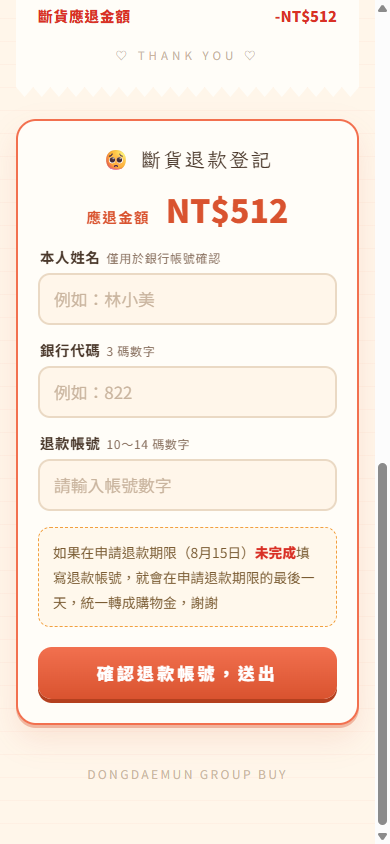
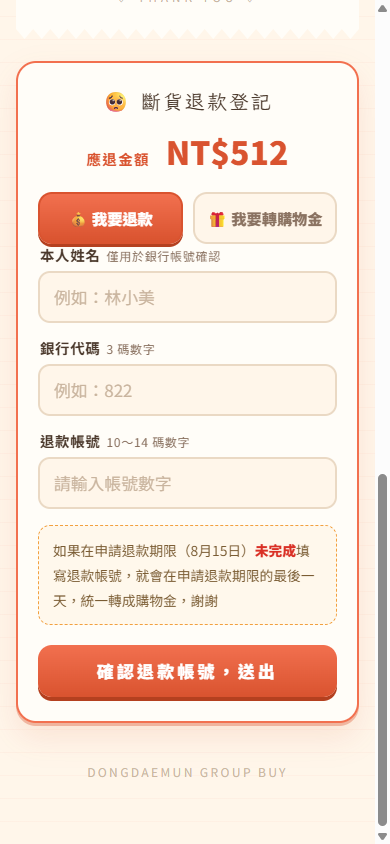
groupbuy-refund-checker：新增退款/轉購物金二選一流程，更新截圖

diff --git a/groupbuy-refund-checker/網站/index.html b/groupbuy-refund-checker/網站/index.html
@@ -171,6 +171,21 @@ button.main:disabled{opacity:.55;box-shadow:0 4px 0 #B4401F}
   display:none;margin-top:12px;background:var(--mint-soft);color:var(--mint);
   border-radius:12px;padding:10px 14px;font-size:.88rem;line-height:1.6;text-align:center;font-weight:700;
 }
+.choice{display:flex;gap:10px;margin-top:18px}
+.choice button{
+  flex:1;font:inherit;font-weight:900;font-size:.95rem;letter-spacing:0;
+  padding:13px 2px;border-radius:14px;cursor:pointer;transition:all .15s;
+  background:var(--cream);color:var(--ink-soft);border:2px solid var(--line);
+  white-space:nowrap;
+}
+.choice button.sel{
+  background:linear-gradient(180deg,var(--coral),var(--coral-deep));color:#fff;
+  border-color:var(--coral-deep);box-shadow:0 3px 0 #B4401F;
+}
+.credit-note{
+  margin-top:16px;background:var(--mint-soft);border:1.5px dashed var(--mint);border-radius:12px;
+  padding:12px 14px;font-size:.86rem;line-height:1.8;color:#22715B;text-align:center;
+}
 .already.show{display:block}
 .note{
   margin-top:16px;background:#FFF8EC;border:1.5px dashed var(--amber);border-radius:12px;
@@ -243,16 +258,27 @@ footer{margin-top:40px;color:#CBB79F;font-size:.75rem;letter-spacing:.2em;text-a
     <div class="refund-card" id="refundCard" hidden>
       <h2>🥺 斷貨退款登記</h2>
       <div class="refund-amt"><small>應退金額　</small><span id="rAmt"></span></div>
-      <div class="already" id="already">已經收到妳填過的退款帳號囉！<br>要更換帳號的話，重新填寫送出即可～</div>
-      <label for="hname">本人姓名<small>僅用於銀行帳號確認</small></label>
-      <input id="hname" autocomplete="off" placeholder="例如：林小美" maxlength="30">
-      <label for="bank">銀行代碼<small>3 碼數字</small></label>
-      <input id="bank" inputmode="numeric" autocomplete="off" placeholder="例如：822" maxlength="3">
-      <label for="acct">退款帳號<small>10～14 碼數字</small></label>
-      <input id="acct" inputmode="numeric" autocomplete="off" placeholder="請輸入帳號數字" maxlength="20">
-      <div class="note" id="deadlineNote"></div>
-      <button class="main" id="btnSubmit">確認退款帳號，送出</button>
-      <div class="err" id="sErr"></div>
+      <div class="already" id="already"></div>
+      <div class="choice">
+        <button id="chooseRefund">💰 我要退款</button>
+        <button id="chooseCredit">🎁 我要轉購物金</button>
+      </div>
+      <div id="refundForm" hidden>
+        <label for="hname">本人姓名<small>僅用於銀行帳號確認</small></label>
+        <input id="hname" autocomplete="off" placeholder="例如：林小美" maxlength="30">
+        <label for="bank">銀行代碼<small>3 碼數字</small></label>
+        <input id="bank" inputmode="numeric" autocomplete="off" placeholder="例如：822" maxlength="3">
+        <label for="acct">退款帳號<small>10～14 碼數字</small></label>
+        <input id="acct" inputmode="numeric" autocomplete="off" placeholder="請輸入帳號數字" maxlength="20">
+        <div class="note" id="deadlineNote"></div>
+        <button class="main" id="btnSubmit">確認退款帳號，送出</button>
+        <div class="err" id="sErr"></div>
+      </div>
+      <div id="creditForm" hidden>
+        <div class="credit-note">不用填帳號～這筆金額會直接轉成購物金，下次開團就可以折抵使用 🧡</div>
+        <button class="main" id="btnCredit">確認轉購物金，送出</button>
+        <div class="err" id="cErr"></div>
+      </div>
     </div>
     <div class="done-note" id="allOkNote">這次訂購的商品都沒有斷貨，安心等收貨就可以囉 🧡</div>
   </div>
@@ -263,8 +289,8 @@ footer{margin-top:40px;color:#CBB79F;font-size:.75rem;letter-spacing:.2em;text-a
 <div class="overlay" id="overlay">
   <div class="modal">
     <div class="emoji">🧡</div>
-    <h3>已收到退款帳號！</h3>
-    <p>感謝查詢，已收到你的退款帳號，我們會在申請退款期限的最後一天，統一完成退款，感謝耐心等候～謝謝</p>
+    <h3 id="mTitle">已收到退款帳號！</h3>
+    <p id="mText">感謝查詢，已收到你的退款帳號，我們會在申請退款期限的最後一天，統一完成退款，感謝耐心等候～謝謝</p>
     <button id="btnClose">好　的</button>
   </div>
 </div>
@@ -372,11 +398,12 @@ footer{margin-top:40px;color:#CBB79F;font-size:.75rem;letter-spacing:.2em;text-a
     $('allOkNote').classList.toggle('show', !hasRefund);
     if (hasRefund) {
       $('rAmt').textContent = nt(d.refund);
-      $('already').classList.toggle('show', !!res.submitted);
+      setAlready(res.submitted);
+      setChoice(null);
       var dl = state.deadline ? '（' + esc(state.deadline) + '）' : '';
       $('deadlineNote').innerHTML = '如果在申請退款期限' + dl +
         '<span class="red">未完成</span>填寫退款帳號，就會在申請退款期限的最後一天，統一轉成購物金，謝謝';
-      hideErr($('sErr'));
+      hideErr($('sErr')); hideErr($('cErr'));
       $('hname').value = ''; $('bank').value = ''; $('acct').value = '';
     }
     $('result').classList.add('show');
@@ -385,6 +412,54 @@ footer{margin-top:40px;color:#CBB79F;font-size:.75rem;letter-spacing:.2em;text-a
   function trow(k, v, cls){
     return '<div class="trow ' + (cls||'') + '"><span class="k">' + k + '</span><span class="v">' + v + '</span></div>';
   }
+
+  /* ── 退款 / 轉購物金 二選一 ── */
+  function setChoice(kind){
+    $('chooseRefund').classList.toggle('sel', kind === 'refund');
+    $('chooseCredit').classList.toggle('sel', kind === 'credit');
+    $('refundForm').hidden = kind !== 'refund';
+    $('creditForm').hidden = kind !== 'credit';
+  }
+  function setAlready(type){
+    var el = $('already');
+    if (type === '購物金') {
+      el.innerHTML = '已經收到妳「轉購物金」的選擇囉！<br>想改成退款的話，點「我要退款」填帳號送出即可～';
+      el.classList.add('show');
+    } else if (type) {
+      el.innerHTML = '已經收到妳填過的退款帳號囉！<br>要更換的話，重新選擇送出即可～';
+      el.classList.add('show');
+    } else {
+      el.classList.remove('show');
+    }
+  }
+  $('chooseRefund').addEventListener('click', function(){ setChoice('refund'); });
+  $('chooseCredit').addEventListener('click', function(){ setChoice('credit'); });
+
+  function showDone(kind){
+    if (kind === 'credit') {
+      $('mTitle').textContent = '已收到，將轉為購物金！';
+      $('mText').textContent = '感謝查詢，已收到妳「轉購物金」的選擇，我們會在申請退款期限的最後一天統一處理，感謝耐心等候～謝謝';
+    } else {
+      $('mTitle').textContent = '已收到退款帳號！';
+      $('mText').textContent = '感謝查詢，已收到你的退款帳號，我們會在申請退款期限的最後一天，統一完成退款，感謝耐心等候～謝謝';
+    }
+    $('overlay').classList.add('show');
+  }
+
+  /* ── 送出：轉購物金 ── */
+  $('btnCredit').addEventListener('click', function(){
+    hideErr($('cErr'));
+    var btn = $('btnCredit');
+    btn.disabled = true; btn.textContent = '送出中…';
+    api({action:'submit', type:'credit', id:state.member.id})
+      .then(function(res){
+        if (!res.ok) { showErr($('cErr'), ERR[res.code] || ERR.network); return; }
+        showDone('credit');
+        setAlready('購物金');
+      })
+      .catch(function(){ showErr($('cErr'), ERR.network); })
+      .finally(function(){ btn.disabled = false; btn.textContent = '確認轉購物金，送出'; });
+  });
 
   /* ── 送出退款帳號 ── */
   $('btnSubmit').addEventListener('click', function(){
@@ -399,8 +474,8 @@ footer{margin-top:40px;color:#CBB79F;font-size:.75rem;letter-spacing:.2em;text-a
     api({action:'submit', id:state.member.id, name:hname, bank:bank, acct:acct})
       .then(function(res){
         if (!res.ok) { showErr($('sErr'), ERR[res.code] || ERR.network); return; }
-        $('overlay').classList.add('show');
-        $('already').classList.add('show');
+        showDone('refund');
+        setAlready('退款');
       })
       .catch(function(){ showErr($('sErr'), ERR.network); })
       .finally(function(){ btn.disabled = false; btn.textContent = '確認退款帳號，送出'; });

diff --git a/groupbuy-refund-checker/匯出批次退款表.py b/groupbuy-refund-checker/匯出批次退款表.py
@@ -70,27 +70,32 @@ def main():
         print("[完成] 這個月沒有任何斷貨退款會員，不需要產批次退款表。")
         return
 
-    # 2. 已填帳號（同會員取「最新」那筆；保險起見照列序後面覆蓋前面）
+    # 2. 已回覆（同會員取「最新」那筆；H欄類型：退款/購物金，舊資料沒有H欄視為退款）
     replies = {}
-    for r in fetch_values(cfg, f"{cfg.get('回覆分頁','退款帳號回覆')}!A2:G"):
-        r = list(r) + [""] * 7
+    for r in fetch_values(cfg, f"{cfg.get('回覆分頁','退款帳號回覆')}!A2:H"):
+        r = list(r) + [""] * 8
         if str(r[6]).strip() == "最新" and r[1]:
-            replies[str(r[1]).strip()] = {"time": r[0], "bank": str(r[4]), "acct": str(r[5])}
+            replies[str(r[1]).strip()] = {"time": r[0], "bank": str(r[4]), "acct": str(r[5]),
+                                          "type": (str(r[7]).strip() or "退款")}
 
     # 3. 組總表
     header = ["會員編號", "姓名", "應退金額", "銀行代碼", "帳號", "填寫時間", "狀態"]
     table = []
-    filled = 0
+    filled = credit = 0
     for m in refund_members:
         rep = replies.get(m["id"])
-        if rep:
+        if rep and rep["type"] == "購物金":
+            credit += 1
+            table.append([m["id"], m["name"], m["amt"], "", "", rep["time"], "轉購物金"])
+        elif rep:
             filled += 1
             table.append([m["id"], m["name"], m["amt"], rep["bank"], rep["acct"], rep["time"], "已填"])
         else:
             table.append([m["id"], m["name"], m["amt"], "", "", "", "未填"])
-    table.sort(key=lambda x: (x[6] != "已填", x[0]))
+    order = {"已填": 0, "轉購物金": 1, "未填": 2}
+    table.sort(key=lambda x: (order.get(x[6], 9), x[0]))
     total = sum(m["amt"] for m in refund_members)
-    print(f"[統計] 應退會員 {len(refund_members)} 位（已填帳號 {filled}、未填 {len(refund_members)-filled}）；退款總額 {total} 元")
+    print(f"[統計] 應退會員 {len(refund_members)} 位（已填帳號 {filled}、轉購物金 {credit}、未填 {len(refund_members)-filled-credit}）；退款總額 {total} 元")
 
     # 4. 寫 Excel
     import openpyxl
@@ -108,9 +113,12 @@ def main():
     for cell in ws["D"] + ws["E"]:
         cell.number_format = "@"  # 銀行代碼/帳號當文字，保住開頭的 0
     red = Font(color="D93025", bold=True)
+    green = Font(color="2FA383", bold=True)
     for r in range(2, ws.max_row + 1):
         if ws.cell(r, 7).value == "未填":
             ws.cell(r, 7).font = red
+        elif ws.cell(r, 7).value == "轉購物金":
+            ws.cell(r, 7).font = green
     ws.append([])
     ws.append(["合計", "", total, "", "", "", ""])
     ws.cell(ws.max_row, 1).font = Font(bold=True)
